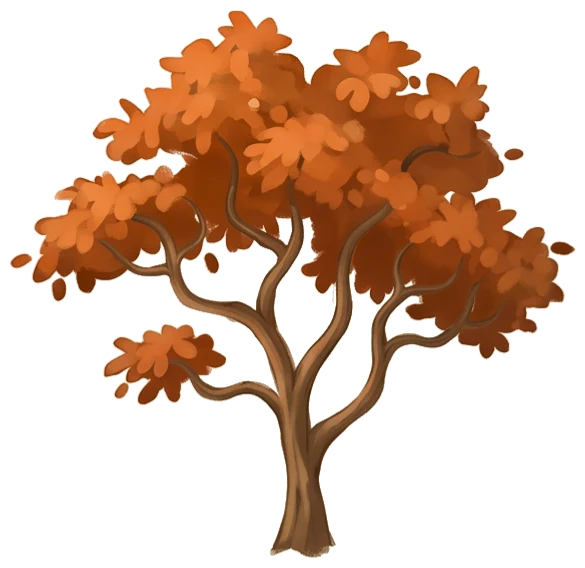
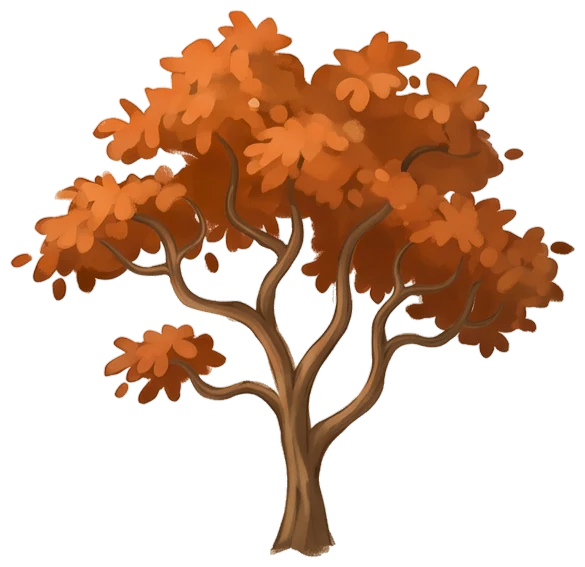
v77: Torgel pathfinding and livelier patrol; garden tree tweaks and reworked orange tree

diff --git a/index.html b/index.html
@@ -218,7 +218,7 @@ body.overview .hud, body.overview .stick-zone, body.overview .guide, body.overvi
 <script>
 // ===================== Общие настройки =====================
 const DPR = Math.min(window.devicePixelRatio || 1, 3);
-const GAME_VERSION = 70;   // совпадает с номером в sw.js (farm-vN); видно в окне «Заново»
+const GAME_VERSION = 77;   // совпадает с номером в sw.js (farm-vN); видно в окне «Заново»
 // Слои земли (трава, дорожки, поля, тени) — глубже любых персонажей и деревьев, даже с отрицательной y
 const GROUND = -5000;
 // Карта: y от −1000 до 2000. Верх (y < 0) — поле с пшеницей, низ (y > 1000) — пастбище Нанамина
@@ -1591,10 +1591,10 @@ function barnChoice() {
     ['Попробую сама', () => { state.nanamin.barn.helped = 'solo'; save(); showDialog([['zmey', 'Смелая! Он ходит по кругу и оглядывается. Прячься за сеном и бочками.']], () => startBarn('solo')); }],
   ]);
 }
-const BARN_PATROL = [[230, 190], [400, 460], [240, 750], [400, 960], [250, 1170], [180, 1380]];   // туда и обратно
+const BARN_PATROL = [[230, 190], [130, 420], [390, 470], [240, 750], [400, 920], [90, 900], [250, 1170], [390, 1360], [80, 1400], [230, 1080], [70, 700], [380, 250]];   // по кругу через весь амбар
 function startBarn(mode) {
   if (!barn.built) buildBarnRoom();
-  Object.assign(barn, { active: true, mode, carry: false, state: 'idle', wp: 0, wpDir: 1, wait: 0.6, lost: 0, timer: 0, glance: 0, cough: 0, chat: 3, squeak: false, lookDir: Math.PI });
+  Object.assign(barn, { active: true, mode, carry: false, state: 'idle', wp: 0, wpDir: 1, path: null, stuckT: 0, repath: 0, wait: 0.6, lost: 0, timer: 0, glance: 0, cough: 0, chat: 3, squeak: false, lookDir: Math.PI });
   const t = barn.torgel, z = barn.zmey;
   if (mode === 'round1') { t.setPosition(BX + 360, BY + 165); barn.ang = -Math.PI / 2; barn.state = 'work'; }
   else if (mode === 'zmey') { t.setPosition(BX + 345, BY + 760); barn.ang = 0; barn.state = 'chat'; barn.glance = 6 + Math.random() * 3; }
@@ -1671,6 +1671,44 @@ function moveTorgel(tx, ty, speed, dt) {
   if (Math.abs(dx) > 2) t.bodyG.scaleX = dx < 0 ? -1 : 1;
   return d;
 }
+// Поиск пути по сетке 20×20 (сено, бочки, ящики — обходятся), 8 направлений
+function barnPath(sx, sy, tx, ty) {
+  const G = 20, C = Math.floor(BW / G), R = Math.floor(BH / G);
+  if (!barn.grid) { barn.grid = new Uint8Array(C * R); for (let r = 0; r < R; r++) for (let c = 0; c < C; c++) barn.grid[r * C + c] = barnWalkable(BX + c * G + G / 2, BY + r * G + G / 2) ? 1 : 0; }
+  const cell = (x, y) => [Math.max(0, Math.min(C - 1, Math.floor((x - BX) / G))), Math.max(0, Math.min(R - 1, Math.floor((y - BY) / G)))];
+  const near = ([c0, r0]) => {   // ближайшая проходимая клетка
+    for (let d = 0; d < 6; d++) for (let dr = -d; dr <= d; dr++) for (let dc = -d; dc <= d; dc++) {
+      const c = c0 + dc, r = r0 + dr; if (c >= 0 && r >= 0 && c < C && r < R && barn.grid[r * C + c]) return [c, r];
+    }
+    return [c0, r0];
+  };
+  const [sc, sr] = near(cell(sx, sy)), [tc, tr] = near(cell(tx, ty));
+  const prev = new Int32Array(C * R).fill(-1), start = sr * C + sc, goal = tr * C + tc;
+  const q = [start]; prev[start] = start;
+  for (let qi = 0; qi < q.length && prev[goal] < 0; qi++) {
+    const i = q[qi], c = i % C, r = (i - c) / C;
+    for (const [dc, dr] of [[1, 0], [-1, 0], [0, 1], [0, -1], [1, 1], [1, -1], [-1, 1], [-1, -1]]) {
+      const nc = c + dc, nr = r + dr, j = nr * C + nc;
+      if (nc < 0 || nr < 0 || nc >= C || nr >= R || prev[j] >= 0 || !barn.grid[j]) continue;
+      if (dc && dr && (!barn.grid[r * C + nc] || !barn.grid[nr * C + c])) continue;   // не срезать углы препятствий
+      prev[j] = i; q.push(j);
+    }
+  }
+  if (prev[goal] < 0) return [[tx, ty]];
+  const pts = [];
+  for (let i = goal; i !== start; i = prev[i]) pts.push([BX + (i % C) * G + G / 2, BY + Math.floor(i / C) * G + G / 2]);
+  pts.reverse();
+  if (barnWalkable(tx, ty)) pts.push([tx, ty]);
+  return pts;
+}
+// Идти к точке по найденному пути; возвращает оставшееся расстояние до цели
+function goTo(tx, ty, speed, s, repath) {
+  const t = barn.torgel, key = Math.round(tx / 20) + ',' + Math.round(ty / 20);
+  if (!barn.path || barn.pathKey !== key || repath) { barn.path = barnPath(t.x, t.y, tx, ty); barn.pathKey = key; }
+  while (barn.path.length && Math.hypot(barn.path[0][0] - t.x, barn.path[0][1] - t.y) < 6) barn.path.shift();
+  if (barn.path.length) moveTorgel(barn.path[0][0], barn.path[0][1], speed, s);
+  return Math.hypot(tx - t.x, ty - t.y);
+}
 function turnTo(target, rate, dt) {
   let da = target - barn.ang; da = Math.atan2(Math.sin(da), Math.cos(da));
   barn.ang += Math.sign(da) * Math.min(Math.abs(da), rate * dt);
@@ -1708,12 +1746,15 @@ function updateBarn(dt, time) {
       if (look && barnSees(t, px, py, R, HALF)) barnSpotted();
     } else if (barn.state === 'patrol') {                      // сама: обход по кругу с остановками
       if (barn.wait > 0) {
-        barn.wait -= s; turnTo(barn.ang + Math.sin(time / 300) * 0.9, 1.6, s);
+        barn.wait -= s; turnTo(barn.ang + Math.sin(time / 260) * 1.2, 2.4, s);   // на остановке оглядывается
       } else {
         const [wx, wy] = BARN_PATROL[barn.wp];
-        if (moveTorgel(BX + wx, BY + wy, 82, s) < 4) {
-          if (barn.wp + barn.wpDir < 0 || barn.wp + barn.wpDir >= BARN_PATROL.length) barn.wpDir *= -1;
-          barn.wp += barn.wpDir; barn.wait = 0.6 + Math.random() * 0.9;
+        const ox = t.x, oy = t.y;
+        const d = goTo(BX + wx, BY + wy, 108, s);
+        barn.stuckT = Math.hypot(t.x - ox, t.y - oy) < 0.3 ? (barn.stuckT || 0) + s : 0;
+        if (d < 8 || barn.stuckT > 1) {                     // дошёл (или застрял) — короткая остановка и дальше
+          barn.wp = (barn.wp + 1) % BARN_PATROL.length; barn.path = null; barn.stuckT = 0;
+          barn.wait = 0.25 + Math.random() * 0.5;
         }
       }
       if (barnSees(t, px, py, R, HALF)) barnSpotted();
@@ -1722,14 +1763,16 @@ function updateBarn(dt, time) {
       if (sees) { barn.lost = 0; barn.last = [px, py]; } else barn.lost += s;
       const [lx, ly] = barn.last || [px, py];
       const sp = barn.mode === 'round1' ? 262 : barn.carry ? 210 : 195;
-      const d = moveTorgel(lx, ly, sp, s);
+      barn.repath = (barn.repath || 0) - s;
+      const d = goTo(lx, ly, sp, s, barn.repath < 0);
+      if (barn.repath < 0) barn.repath = 0.3;
       if (Math.hypot(px - t.x, py - t.y) < 28) return barnCaught();
       if (barn.mode !== 'round1' && barn.lost > 1.6 && d < 10) {       // потерял из виду
-        barn.state = barn.mode === 'zmey' ? 'back' : 'patrol'; barn.alert.setVisible(false);
+        barn.state = barn.mode === 'zmey' ? 'back' : 'patrol'; barn.alert.setVisible(false); barn.path = null;
         toast('Торгель: «Показалось, что ли…»', 'info');
       }
     } else if (barn.state === 'back') {
-      if (moveTorgel(BX + 345, BY + 760, 120, s) < 4) { barn.state = 'chat'; barn.ang = 0; barn.glance = 6; }
+      if (goTo(BX + 345, BY + 760, 120, s) < 8) { barn.state = 'chat'; barn.ang = 0; barn.glance = 6; barn.path = null; }
     }
   }
   // взгляд Торгеля на полу
@@ -2197,13 +2240,13 @@ const GARDEN = [
   ['g-rock-leaning-a', 1852, 637, 160, 189, 820.37, 0],
   ['g-rock-poppies-a', 931, 520, 75, 55, 573.89, 0],
   ['s2-oak-1', 644, 430, 321, 281, 702.07, 1],
-  ['tree-2', 1048, 556, 176, 186, 735.79, 1],
-  ['g-s2-branchy-3', 1102, 587, 199, 193, 773.95, 1],
+  ['tree-2', 1108, 551, 176, 186, 730.79, 1],   // за прудом — правее и ниже, ближе к камышам
+  ['g-s2-branchy-3', 1150, 592, 199, 193, 762.00, 1],   // ствол у камышей (чуть левее, ближе к пруду); картинка доработана
   ['g-bush-poppy', 697, 633, 86, 70, 702.12, 0],
   ['g-rock-moss-flowers', 727, 648, 112, 82, 727.45, 0],
   ['tree-4', 674, 697, 141, 148, 840.12, 1],
   ['bush-2', 784, 703, 72, 62, 774.05, 1],
-  ['g-s2-branchy-2', 834, 566, 195, 194, 774.05, 1],
+  ['g-s2-branchy-2', 786, 555, 195, 194, 760.00, 1],   // ствол левее Айро, за кустами (по эскизу)
   ['bush-4', 825, 727, 50, 43, 774.10, 1],
   ['tree-3', 1598, 727, 195, 206, 927.01, 1],
   ['g-bush-poppy', 777, 736, 86, 70, 803.66, 0],
@@ -2218,7 +2261,7 @@ const GARDEN = [
   ['s2-oak-1', 1371, 387, 395, 345, 721.32, 1],
   ['bush-4', 1444, 647, 72, 62, 721.37, 1],
   ['g-rock-leaning-b', 1230, 827, 78, 95, 919.04, 0],
-  ['s2-oak-2', 1192, 768, 363, 265, 1025.35, 1],
+  ['s2-oak-2', 1192, 818, 363, 265, 1075.35, 1],   // опущен: корни ниже забора, на пастбище
   ['g-rock-poppies-a', 1554, 656, 97, 71, 724.69, 0],
   ['g-tuft-poppy', 1215, 884, 42, 41, 924.62, 0],
   ['g-tuft-poppy', 1739, 616, 39, 38, 666.88, 0],
@@ -2227,9 +2270,9 @@ const GARDEN = [
   ['g-tuft-cornflower', 1358, 592, 48, 44, 638.06, 0],
   ['g-rock-long', 1462, 671, 84, 52, 721.42, 0],
   ['g-tuft-poppy', 852, 745, 42, 41, 785.10, 0],
-  ['g-tuft-clover', 1271, 739, 45, 43, 781.08, 0],
+  ['g-tuft-clover', 1321, 739, 45, 43, 781.08, 0],   // правее, подальше от камышей
   ['g-pebbles-a', 1512, 704, 46, 36, 738.97, 0],
-  ['g-pebbles-a', 1268, 768, 33, 25, 792.65, 0],
+  ['g-pebbles-a', 1318, 768, 33, 25, 792.65, 0],
   ['g-pebbles-b', 1211, 914, 36, 23, 936.63, 0],
   ['g-rock-twin', 1807, 524, 144, 163, 681.78, 0],
   ['bush-4', 1865, 624, 85, 73, 695.51, 1],
@@ -2703,7 +2746,7 @@ class FarmScene extends Phaser.Scene {
   create() {
     scene = this;
     // после «Заново» и пропуска квеста сцена создаётся заново — комнату амбара тоже нужно нарисовать заново
-    Object.assign(barn, { active: false, built: false, carry: false }); document.body.classList.remove('in-barn');
+    Object.assign(barn, { active: false, built: false, carry: false, grid: null, path: null }); document.body.classList.remove('in-barn');
     lockLayers = {}; bedG = []; chickens.length = 0; nearId = null;
 
     drawGround();

diff --git a/sw.js b/sw.js
@@ -4,7 +4,7 @@
 //  • картинки и движок — сразу из сохранённой копии (без похода в сеть при каждом запуске).
 //    Когда выходит новая версия (меняется CACHE), новый service worker при установке
 //    обновляет все файлы — неизменённые браузер не скачивает заново (сверяет и получает «не изменился»).
-const CACHE = 'farm-v70';
+const CACHE = 'farm-v77';
 const CORE = [
   './',
   './index.html',
